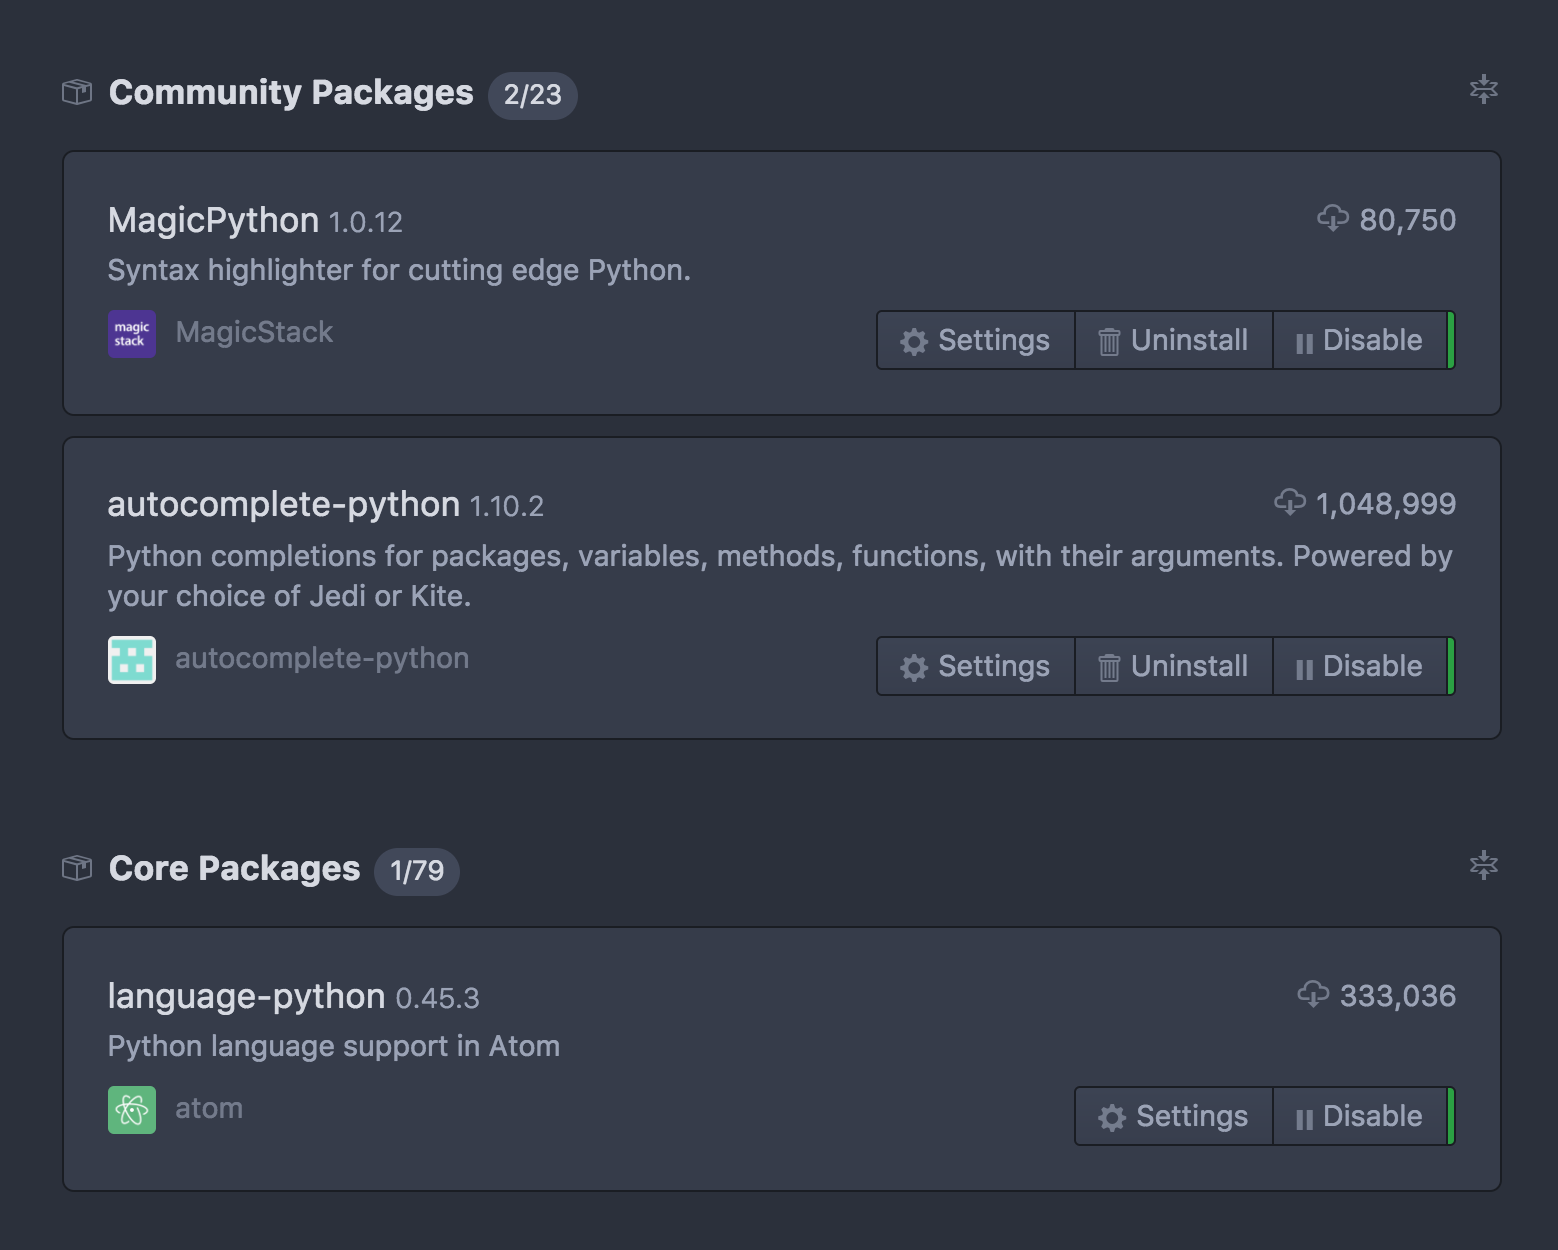
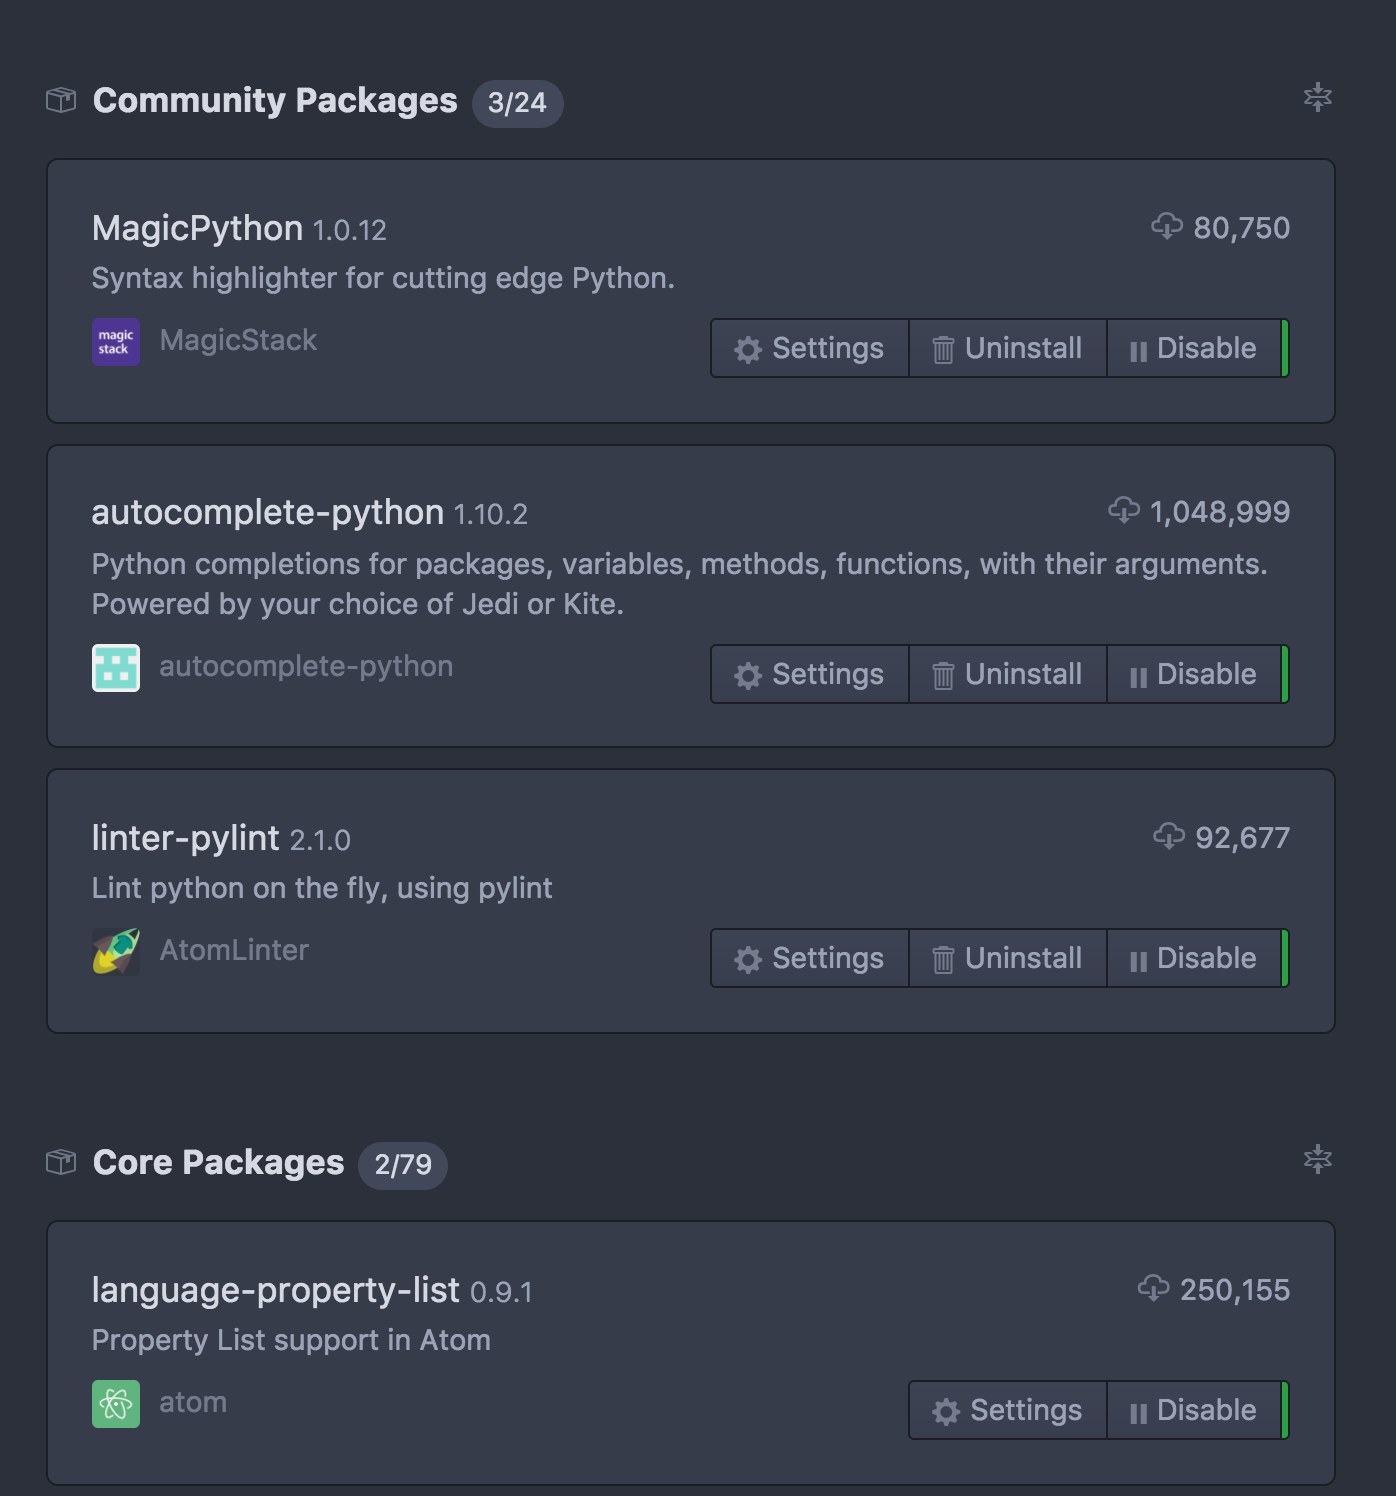
Python linting

diff --git a/py/README.md b/py/README.md
@@ -21,3 +21,7 @@ The following `README` articulates how to setup your development environment for
 5. Make sure the following packages are downloaded (install them if they are not):
 
 ![Install Recommended Packages](img/py-packages.png)
+
+6. Refer the `linter-pylint` package to this directory's `.pylintrc` file:
+
+![Pylint Setup](img/pylint.png)
